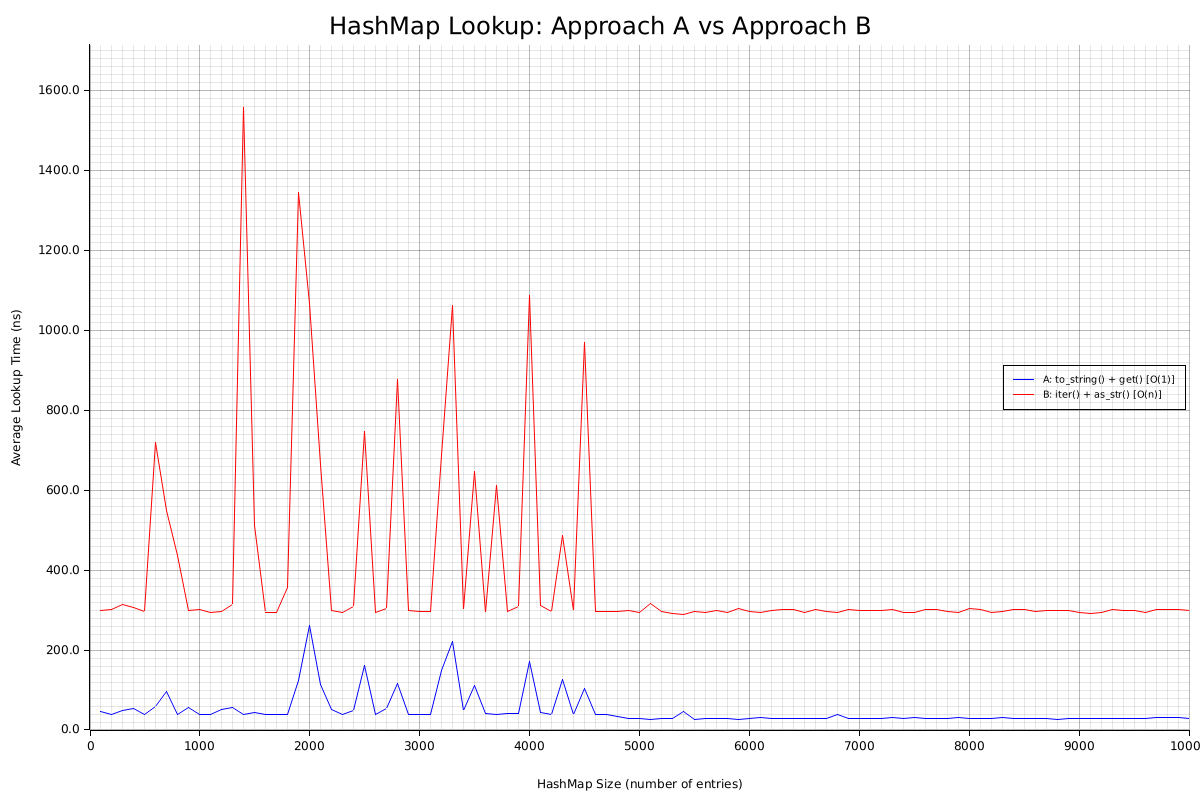
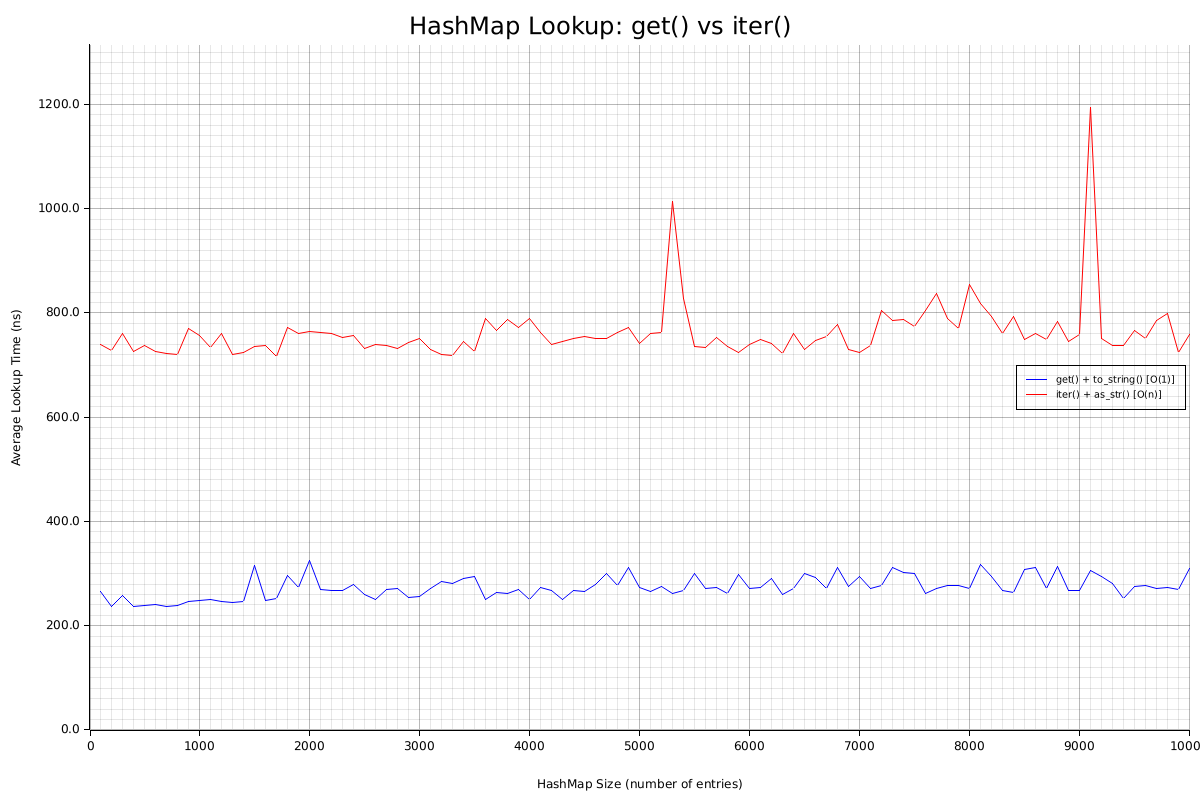
Eliminate CPU cache hit on second benchmark
If a HashMap been search by previous benchmark run, it is most likely
been stored in CPU layer 1/2 cache, to eliminate this, we create brand
new HashMap and querier for second benchmark.

Changed region(s): [[0.0308, 0.0, 0.9867, 0.9062]]

diff --git a/src/main.rs b/src/main.rs
@@ -5,16 +5,16 @@ use std::{collections::HashMap, time::Instant};
 use plotters::prelude::*;
 use rand::Rng;
 
-/// Approach A: Convert &str to String, then use HashMap::get()
-fn search_approach_a(
+/// Approach get: Convert &str to String, then use HashMap::get()
+fn search_approach_get(
     map: &HashMap<(String, String), u32>,
     key: (&str, &str),
 ) -> Option<u32> {
     map.get(&(key.0.to_string(), key.1.to_string())).copied()
 }
 
-/// Approach B: Iterate over HashMap, compare keys using as_str()
-fn search_approach_b(
+/// Approach iter: Iterate over HashMap, compare keys using as_str()
+fn search_approach_iter(
     map: &HashMap<(String, String), u32>,
     key: (&str, &str),
 ) -> Option<u32> {
@@ -55,8 +55,8 @@ fn main() {
     // Different HashMap sizes for X-axis
     let sizes: Vec<usize> = (100..=10_000).step_by(100).collect();
 
-    let mut results_a: Vec<f64> = Vec::new();
-    let mut results_b: Vec<f64> = Vec::new();
+    let mut results_get: Vec<f64> = Vec::new();
+    let mut results_iter: Vec<f64> = Vec::new();
 
     for &size in &sizes {
         // Build HashMap
@@ -76,16 +76,33 @@ fn main() {
             .map(|(k1, k2)| (k1.as_str(), k2.as_str()))
             .collect();
 
-        // Benchmark both approaches
-        let time_a = benchmark(&map, search_approach_a, &queries);
-        let time_b = benchmark(&map, search_approach_b, &queries);
+        let time_get = benchmark(&map, search_approach_get, &queries);
 
-        results_a.push(time_a);
-        results_b.push(time_b);
+        // Build a fresh HashMap for Approach iter to avoid CPU cache advantage
+        let mut map_b: HashMap<(String, String), u32> =
+            HashMap::with_capacity(size);
+        for i in 0..size {
+            let k1 = random_string(&mut rng, 10);
+            let k2 = random_string(&mut rng, 10);
+            map_b.insert((k1, k2), i as u32);
+        }
+
+        // Collect existing keys for queries (to ensure hits)
+        let keys: Vec<(String, String)> =
+            map_b.keys().take(100).cloned().collect();
+        let queries: Vec<(&str, &str)> = keys
+            .iter()
+            .map(|(k1, k2)| (k1.as_str(), k2.as_str()))
+            .collect();
+        let time_iter = benchmark(&map_b, search_approach_iter, &queries);
+
+        results_get.push(time_get);
+        results_iter.push(time_iter);
 
         println!(
-            "size={}, approach_A={:.2} ns/lookup, approach_B={:.2} ns/lookup",
-            size, time_a, time_b
+            "size={}, approach_get={:.2} ns/lookup, approach_iter={:.2} \
+             ns/lookup",
+            size, time_get, time_iter
         );
     }
 
@@ -94,13 +111,10 @@ fn main() {
         BitMapBackend::new("benchmark.png", (1200, 800)).into_drawing_area();
     root.fill(&WHITE).unwrap();
 
-    let max_y = results_b.iter().cloned().fold(f64::MIN, f64::max) * 1.1;
+    let max_y = results_iter.iter().cloned().fold(f64::MIN, f64::max) * 1.1;
 
     let mut chart = ChartBuilder::on(&root)
-        .caption(
-            "HashMap Lookup: Approach A vs Approach B",
-            ("sans-serif", 30),
-        )
+        .caption("HashMap Lookup: get() vs iter()", ("sans-serif", 30))
         .margin(10)
         .x_label_area_size(60)
         .y_label_area_size(80)
@@ -116,35 +130,35 @@ fn main() {
         .draw()
         .unwrap();
 
-    // Approach A: Blue line
+    // Approach get: Blue line
     chart
         .draw_series(LineSeries::new(
             sizes
                 .iter()
-                .zip(results_a.iter())
+                .zip(results_get.iter())
                 .map(|(&x, &y)| (x as u32, y)),
             &BLUE,
         ))
         .unwrap()
-        .label("A: to_string() + get() [O(1)]")
-        .legend(|(x, y)| PathElement::new(vec![(x, y), (x + 20, y)], &BLUE));
+        .label("get() + to_string() [O(1)]")
+        .legend(|(x, y)| PathElement::new(vec![(x, y), (x + 20, y)], BLUE));
 
-    // Approach B: Red line
+    // Approach iter: Red line
     chart
         .draw_series(LineSeries::new(
             sizes
                 .iter()
-                .zip(results_b.iter())
+                .zip(results_iter.iter())
                 .map(|(&x, &y)| (x as u32, y)),
             &RED,
         ))
         .unwrap()
-        .label("B: iter() + as_str() [O(n)]")
-        .legend(|(x, y)| PathElement::new(vec![(x, y), (x + 20, y)], &RED));
+        .label("iter() + as_str() [O(n)]")
+        .legend(|(x, y)| PathElement::new(vec![(x, y), (x + 20, y)], RED));
 
     chart
         .configure_series_labels()
-        .border_style(&BLACK)
+        .border_style(BLACK)
         .draw()
         .unwrap();
 
